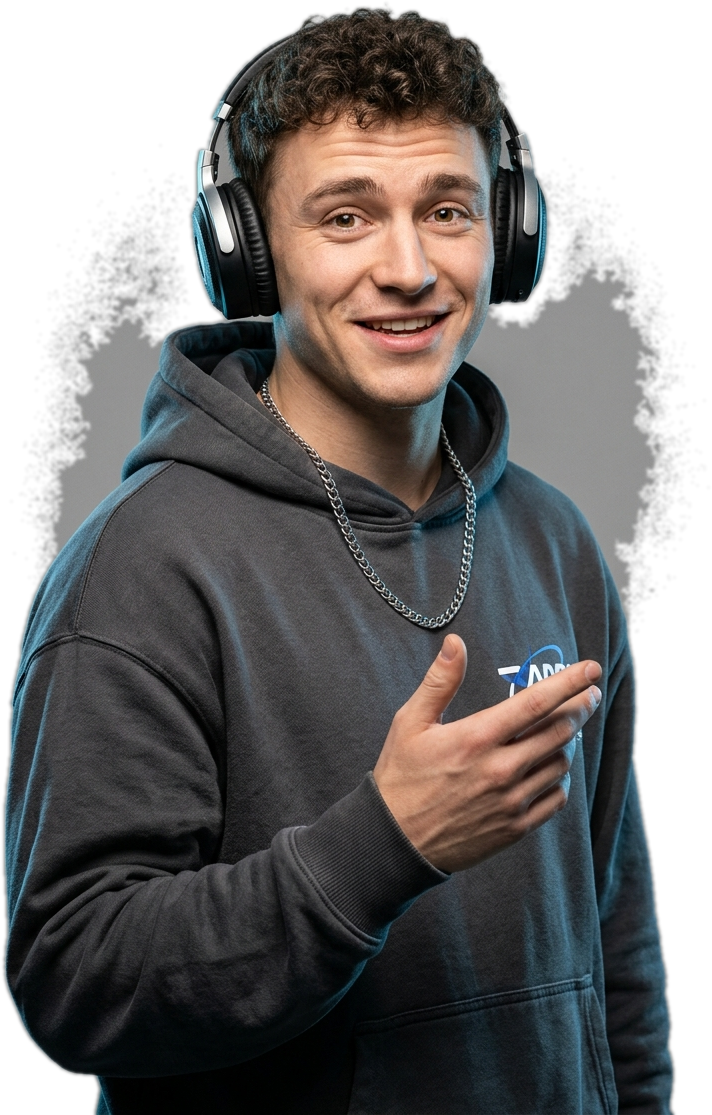
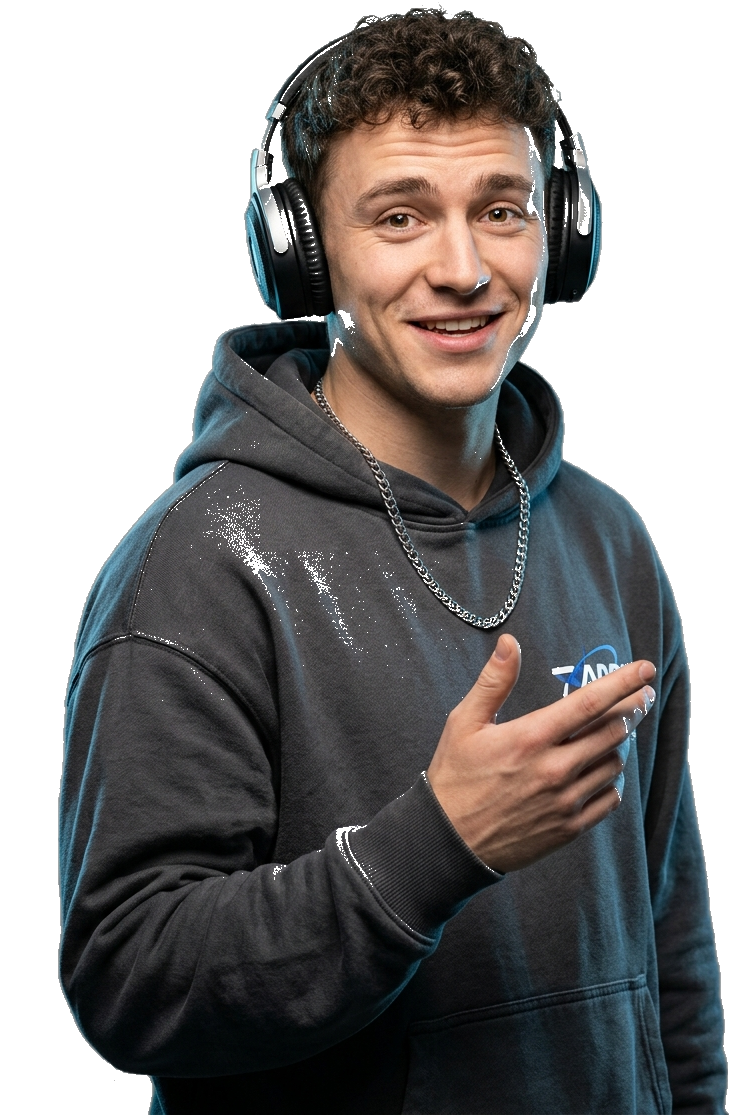
fix(cutout): eliminate leftover grey studio background patch behind creator neck/shoulder

diff --git a/index.html b/index.html
@@ -538,7 +538,7 @@
               <!-- Layer 3: Subject Cutout -->
               <div class="studio-layer studio-layer--subject">
                 <span class="layer-depth-pill">Layer 3: Auto Cutout</span>
-                <img src="/assets/images/real-creator-cutout.png" alt="Real YouTube Creator Cutout with Headset" class="studio-subject-img" width="360" height="450" loading="lazy">
+                <img src="/assets/images/real-creator-cutout.png?v=clean-cutout-3" alt="Real YouTube Creator Cutout with Headset" class="studio-subject-img" width="360" height="450" loading="lazy">
               </div>
               <!-- Layer 4: Bold Typography & Sticker -->
               <div class="studio-layer studio-layer--text">
